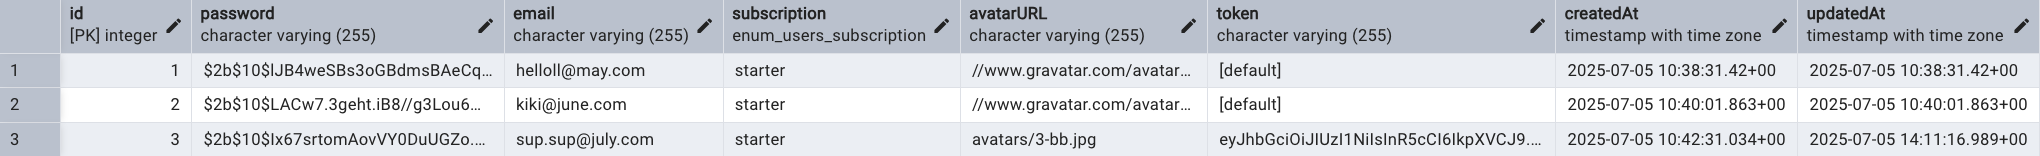
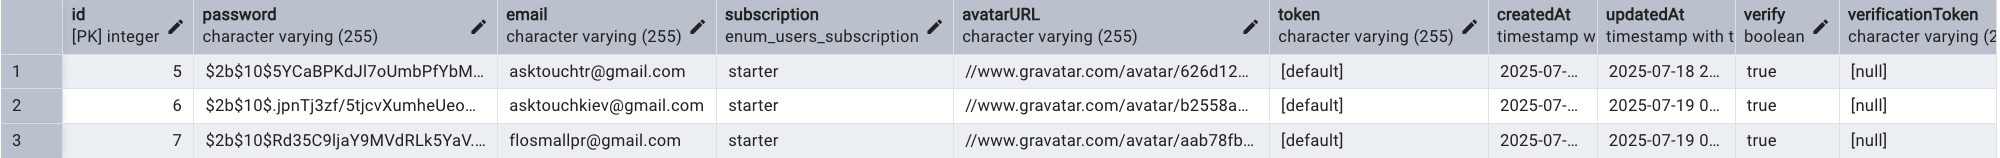
added resending the email for verification

diff --git a/controllers/authControllers.js b/controllers/authControllers.js
@@ -4,7 +4,7 @@ import gravatar from "gravatar";
 import { v4 as uuidv4 } from "uuid";
 import User from "../db/Users.js";
 import sendMail from "../helpers/sendMail.js";
-import { registerSchema, loginSchema } from "../schemas/authSchemas.js";
+import { registerSchema, loginSchema, resendVerifySchema } from "../schemas/authSchemas.js";
 import HttpError from "../helpers/HttpError.js";
 import controllerWrapper from "../helpers/controllerWrapper.js";
 import path from "path";
@@ -151,6 +151,36 @@ const verifyEmail = async (req, res) => {
   });
 };
 
+const resendVerifyEmail = async (req, res) => {
+  const { error } = resendVerifySchema.validate(req.body);
+  if (error) {
+    throw HttpError(400, error.message);
+  }
+
+  const { email } = req.body;
+  const user = await User.findOne({ where: { email } });
+
+  if (!user) {
+    throw HttpError(404, "User not found");
+  }
+
+  if (user.verify) {
+    throw HttpError(400, "Verification has already been passed");
+  }
+
+  const verificationEmail = {
+    to: email,
+    subject: "Verify your email address",
+    html: `To verify your email, please click on this <a href="${APP_DOMAIN}/api/auth/verify/${user.verificationToken}">link</a>`,
+  };
+
+  await sendMail(verificationEmail);
+
+  res.json({
+    message: "Verification email sent",
+  });
+};
+
 export default {
   register: controllerWrapper(register),
   login: controllerWrapper(login),
@@ -158,4 +188,5 @@ export default {
   getCurrent: controllerWrapper(getCurrent),
   updateAvatar: controllerWrapper(updateAvatar),
   verifyEmail: controllerWrapper(verifyEmail),
+  resendVerifyEmail: controllerWrapper(resendVerifyEmail),
 };

diff --git a/routes/authRouter.js b/routes/authRouter.js
@@ -1,0 +1,22 @@
+import express from "express";
+import authController from "../controllers/authControllers.js";
+import authenticate from "../middleware/authenticate.js";
+import upload from "../middleware/upload.js";
+
+const authRouter = express.Router();
+
+authRouter.post("/register", authController.register);
+authRouter.post("/login", authController.login);
+authRouter.post("/logout", authenticate, authController.logout);
+authRouter.get("/current", authenticate, authController.getCurrent);
+authRouter.patch(
+  "/avatars",
+  authenticate,
+  upload.single("avatar"),
+  authController.updateAvatar
+);
+authRouter.get("/verify/:verificationToken", authController.verifyEmail);
+
+authRouter.post("/verify", authController.resendVerifyEmail);
+
+export default authRouter;

diff --git a/schemas/authSchemas.js b/schemas/authSchemas.js
@@ -6,6 +6,12 @@ export const registerSchema = Joi.object({
 });
 
 export const loginSchema = Joi.object({
-  email: Joi.string().email().required(),
-  password: Joi.string().min(6).required(),
+  email: Joi.string().required(),
+  password: Joi.string().required(),
+});
+
+export const resendVerifySchema = Joi.object({
+  email: Joi.string().email().required().messages({
+    'any.required': 'missing required field email',
+  }),
 });

diff --git a/README.md b/README.md
@@ -23,6 +23,8 @@
 - **POST /api/auth/logout** — логаут (потрібен `Authorization` заголовок)
 - **GET /api/auth/current** — отримання даних поточного користувача (потрібен `Authorization` заголовок)
 - **PATCH /api/auth/avatars** — оновлення аватара користувача (потрібен `Authorization` заголовок та `multipart/form-data`)
+- **GET /api/auth/verify/:verificationToken** — верифікація пошти, перехід по посиланню з листа
+- **POST /api/auth/verify** — повторна відправка листа для верифікації (потрібно передати `email` в тілі запиту)
 
 ## Валідація
 
